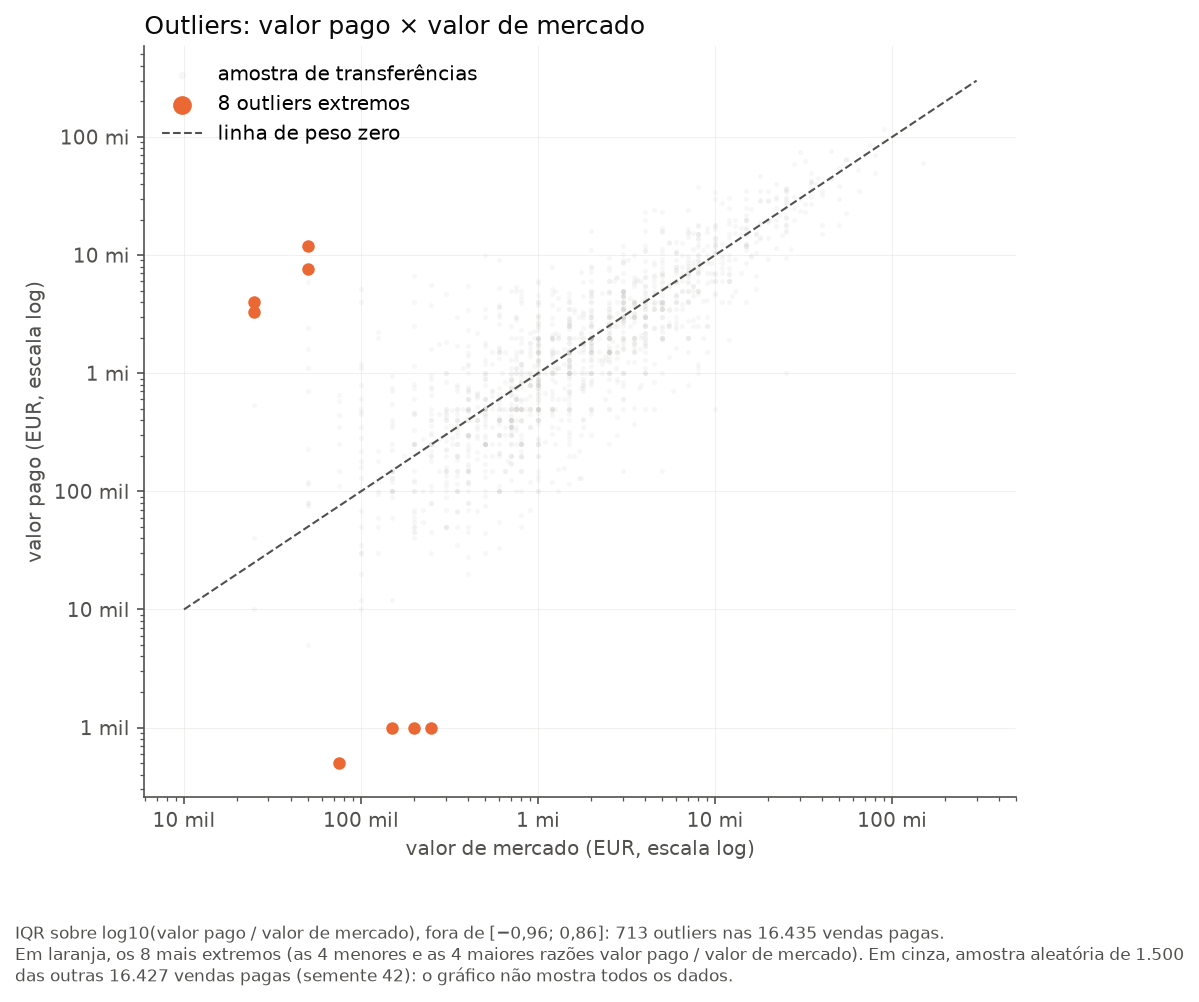
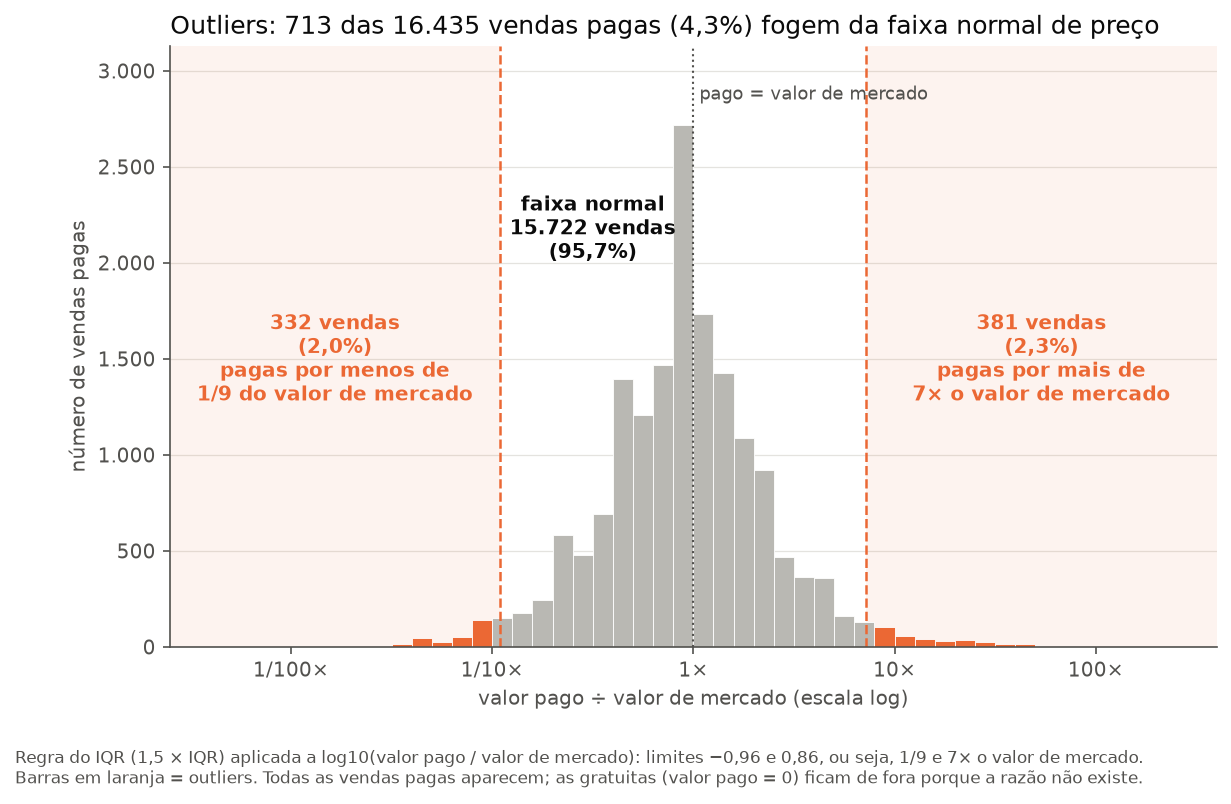
e5: troca o dispersograma de outliers por histograma da razao com as faixas do IQR

diff --git a/src/viz_parte2.py b/src/viz_parte2.py
@@ -298,36 +298,51 @@ def outliers(t, saida):
     pagas = t[~t["gratuita"]].copy()
     pagas["log_razao"] = np.log10(pagas["razao"])
     lim = iqr(pagas["log_razao"])
-    fora = (pagas["log_razao"] < lim["limite_inferior"]) | (pagas["log_razao"] > lim["limite_superior"])
-    # [IA] Claude Code (Claude Opus 5.5) – código do E5 decidido por João em 25/11/2026: em laranja só os 8 outliers do IQR
-    # mais extremos (as 4 menores e as 4 maiores razões valor pago / valor de mercado); em cinza, amostra aleatória de
-    # 1.500 das demais vendas pagas (semente 42), com 10% de opacidade; sem nomes; critério e amostra no rodapé.
-    # O cálculo do IQR não mudou.
-    outl = pagas[fora].sort_values("razao", kind="stable")
-    extremos = pd.concat([outl.head(4), outl.tail(4)])
-    demais = pagas.drop(extremos.index)
-    amostra = demais.sample(n=min(1500, len(demais)), random_state=42)
-    fig, ax = plt.subplots(figsize=(7.5, 6.5))
-    ax.scatter(amostra["market_value_in_eur"], amostra["transfer_fee"], s=6, alpha=0.10, color=NEUTRO,
-               linewidths=0, label="amostra de transferências")
-    ax.scatter(extremos["market_value_in_eur"], extremos["transfer_fee"], s=36, alpha=1.0, color=DESTAQUE,
-               linewidths=0, label=f"{len(extremos)} outliers extremos", zorder=3)
-    x = np.array([1e4, 3e8])
-    ax.plot(x, x, color=TEXTO_2, lw=1, ls="--", label="linha de peso zero")
-    ax.set_xscale("log")
-    ax.set_yscale("log")
-    ax.grid(color=GRADE, lw=0.4, alpha=0.6)
-    ax.xaxis.set_major_formatter(FuncFormatter(eur))
-    ax.yaxis.set_major_formatter(FuncFormatter(eur))
-    ax.set_xlabel("valor de mercado (EUR, escala log)")
-    ax.set_ylabel("valor pago (EUR, escala log)")
-    ax.set_title("Outliers: valor pago × valor de mercado")
-    ax.legend(loc="upper left", markerscale=1.5)
-    rodape(fig, f"IQR sobre log10(valor pago / valor de mercado), fora de [{br(lim['limite_inferior'], 2)}; "
-                f"{br(lim['limite_superior'], 2)}]: {br(int(fora.sum()))} outliers nas {br(len(pagas))} vendas pagas.\n"
-                f"Em laranja, os {len(extremos)} mais extremos (as 4 menores e as 4 maiores razões valor pago / valor de mercado). "
-                f"Em cinza, amostra aleatória de {br(len(amostra))}\ndas outras {br(len(demais))} vendas pagas (semente 42): "
-                "o gráfico não mostra todos os dados.")
+    baixo, alto = lim["limite_inferior"], lim["limite_superior"]
+    abaixo = int((pagas["log_razao"] < baixo).sum())
+    acima = int((pagas["log_razao"] > alto).sum())
+    n = len(pagas)
+    # [IA] Claude Code (Claude Opus 5.5) – E5 refeito em 26/11/2026 a pedido do João, após a professora de AVD achar o
+    # dispersograma confuso: histograma de todas as vendas pagas na mesma variável em que o IQR é calculado (log10 da
+    # razão valor pago / valor de mercado), com as faixas de outlier sombreadas e a contagem de cada lado.
+    # O cálculo do IQR não mudou; o gráfico deixa de usar amostra.
+    bins = np.arange(-2.6, 2.61, 0.1)
+    cont, bordas = np.histogram(pagas["log_razao"], bins=bins)
+    centros = (bordas[:-1] + bordas[1:]) / 2
+    cores = [DESTAQUE if c < baixo or c > alto else NEUTRO for c in centros]
+    fig, ax = plt.subplots(figsize=(9, 5.2))
+    ax.axvspan(bins[0], baixo, color=DESTAQUE, alpha=0.08, lw=0)
+    ax.axvspan(alto, bins[-1], color=DESTAQUE, alpha=0.08, lw=0)
+    ax.bar(centros, cont, width=0.1, color=cores, edgecolor="white", linewidth=0.4)
+    for x in (baixo, alto):
+        ax.axvline(x, color=DESTAQUE, lw=1.2, ls="--")
+    ax.axvline(0, color=TEXTO_2, lw=1, ls=":")
+    topo = cont.max()
+    ax.text(0.03, topo * 1.04, "pago = valor de mercado", ha="left", va="bottom", fontsize=8.5, color=TEXTO_2)
+    fator_baixo, fator_alto = 10 ** -baixo, 10 ** alto
+    ax.text((bins[0] + baixo) / 2, topo * 0.55,
+            f"{br(abaixo)} vendas\n({pct(abaixo / n, 1)})\npagas por menos de\n1/{br(fator_baixo)} do valor de mercado",
+            ha="center", va="center", fontsize=9.5, color=DESTAQUE, fontweight="bold")
+    ax.text((alto + bins[-1]) / 2, topo * 0.55,
+            f"{br(acima)} vendas\n({pct(acima / n, 1)})\npagas por mais de\n{br(fator_alto)}× o valor de mercado",
+            ha="center", va="center", fontsize=9.5, color=DESTAQUE, fontweight="bold")
+    ax.text(-0.5, topo * 0.8, f"faixa normal\n{br(n - abaixo - acima)} vendas\n({pct((n - abaixo - acima) / n, 1)})",
+            ha="center", va="center", fontsize=9.5, color=TEXTO, fontweight="bold")
+    marcas = [-2, -1, 0, 1, 2]
+    ax.xaxis.set_major_locator(FixedLocator(marcas))
+    ax.set_xticklabels(["1/100×", "1/10×", "1×", "10×", "100×"])
+    ax.set_xlim(bins[0], bins[-1])
+    ax.set_ylim(0, topo * 1.15)
+    ax.yaxis.set_major_formatter(FuncFormatter(lambda v, _: br(v)))
+    ax.grid(axis="x", visible=False)
+    ax.set_xlabel("valor pago ÷ valor de mercado (escala log)")
+    ax.set_ylabel("número de vendas pagas")
+    ax.set_title(f"Outliers: {br(abaixo + acima)} das {br(n)} vendas pagas ({pct((abaixo + acima) / n, 1)}) "
+                 f"fogem da faixa normal de preço")
+    rodape(fig, f"Regra do IQR (1,5 × IQR) aplicada a log10(valor pago / valor de mercado): limites "
+                f"{br(baixo, 2)} e {br(alto, 2)}, ou seja, 1/{br(fator_baixo)} e {br(fator_alto)}× o valor de mercado.\n"
+                "Barras em laranja = outliers. Todas as vendas pagas aparecem; as gratuitas (valor pago = 0) ficam de fora "
+                "porque a razão não existe.")
     return salvar(fig, Path(saida) / "e5_outliers.png")
 
 

diff --git a/docs/parte2/relatorio_parte2.md b/docs/parte2/relatorio_parte2.md
@@ -121,7 +121,7 @@ altura 0,08 (desprezível). Entre as categóricas (`e4_relacoes.png`):
   todos transferências conhecidas e corretas.
 - **Razão valor pago / valor de mercado (log10), nas vendas pagas:** 713 outliers (4,34%), fora de
   [−0,96; 0,86], ou seja, pagas por menos de 1/9 ou mais de 7 vezes o valor de mercado
-  (`e5_outliers.png`, que exibe uma amostra de 1.500 vendas e os 8 casos mais extremos). Nas faixas baixas há valores de mercado redondos (25 mil, 50 mil) com valor
+  (`e5_outliers.png`, histograma de todas as vendas pagas com as faixas de outlier em destaque). Nas faixas baixas há valores de mercado redondos (25 mil, 50 mil) com valor
   pago de milhões, onde o valor de mercado provavelmente está desatualizado.
 - **Tratamento:** os outliers ficam no grafo. Eles são o fenômeno que a pergunta de pesquisa estuda
   (os maiores ciclos e caminhos negativos passam por eles), e removê-los mudaria a resposta. Nos
@@ -293,7 +293,7 @@ mais que os outros atributos e a relação é monotônica. Por que esse gráfico
 ao número de categorias, permite comparar os efeitos entre atributos; o n de cada grupo fica
 escrito para não supervalorizar grupos pequenos.
 
-**E5: `e5_outliers.png` (exploratória).** O gráfico compara o valor pago com o valor de mercado nas transferências, utilizando escala logarítmica nos dois eixos. A análise completa identificou 713 outliers entre as 16.435 vendas pagas, utilizando a regra do IQR sobre o logaritmo da razão entre esses valores. Para deixar a visualização mais limpa, foram exibidas 1.500 transferências selecionadas aleatoriamente com semente fixa 42, em cinza claro, além de 8 casos extremos destacados em laranja: os quatro com menores razões e os quatro com maiores razões entre os outliers identificados. A linha tracejada representa as transferências em que o valor pago é igual ao valor de mercado. O gráfico permite observar que existem transferências com valores pagos muito acima ou abaixo do valor de mercado, especialmente entre jogadores com valores de mercado menores. A dispersão foi mantida porque permite comparar diretamente as duas variáveis, enquanto a escala logarítmica facilita a visualização de valores com diferenças muito grandes. A redução dos pontos exibidos e dos destaques evita a sobreposição excessiva sem alterar a análise realizada sobre o conjunto completo.
+**E5: `e5_outliers.png` (exploratória).** O gráfico é um histograma da razão entre o valor pago e o valor de mercado nas 16.435 vendas pagas, em escala logarítmica (1× = pago exatamente o valor de mercado). É a mesma variável sobre a qual a regra do IQR é calculada, então os limites aparecem direto no eixo: as linhas tracejadas marcam 1/9 e 7× o valor de mercado, e tudo o que fica fora delas (faixas sombreadas, barras em laranja) é outlier. São 713 outliers (4,3%): 332 vendas pagas por menos de 1/9 do valor de mercado e 381 por mais de 7×. A maior parte das vendas se concentra perto de 1×, com leve inclinação para baixo (mediana abaixo do valor de mercado), e as caudas são parecidas dos dois lados. O histograma substituiu o dispersograma valor pago × valor de mercado porque mostra todas as vendas, sem amostra, e deixa visível onde o critério de outlier corta a distribuição. Os outliers ficam no grafo, porque são justamente as transferências que geram os maiores pesos e os caminhos negativos estudados.
 
 **X1: `x1_explanatoria_caminho.png` (explanatória, responde à pergunta).** Custo acumulado ao
 longo do caminho de menor custo do Bellman-Ford no grafo temporal, com a saída do Mbappé em
